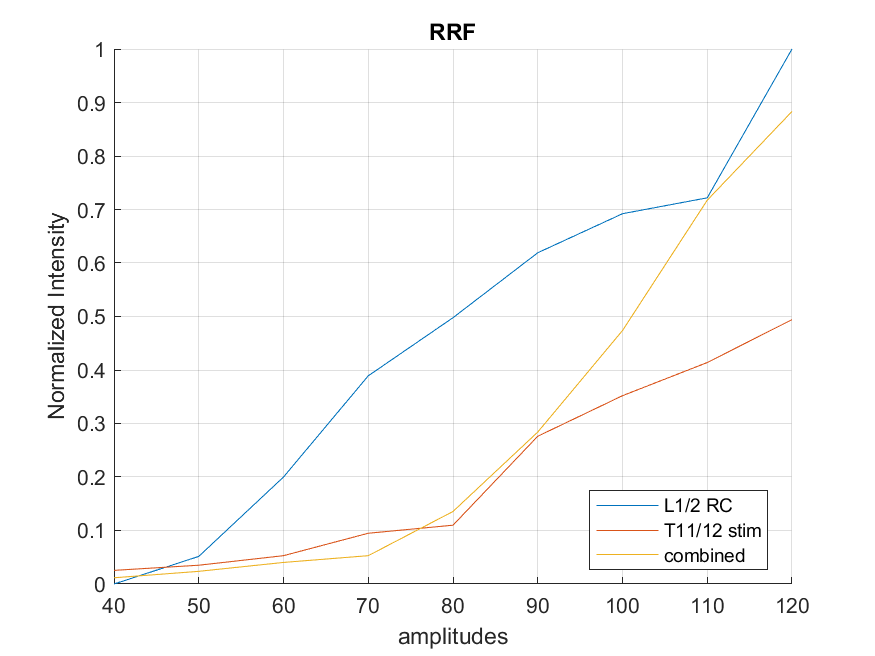
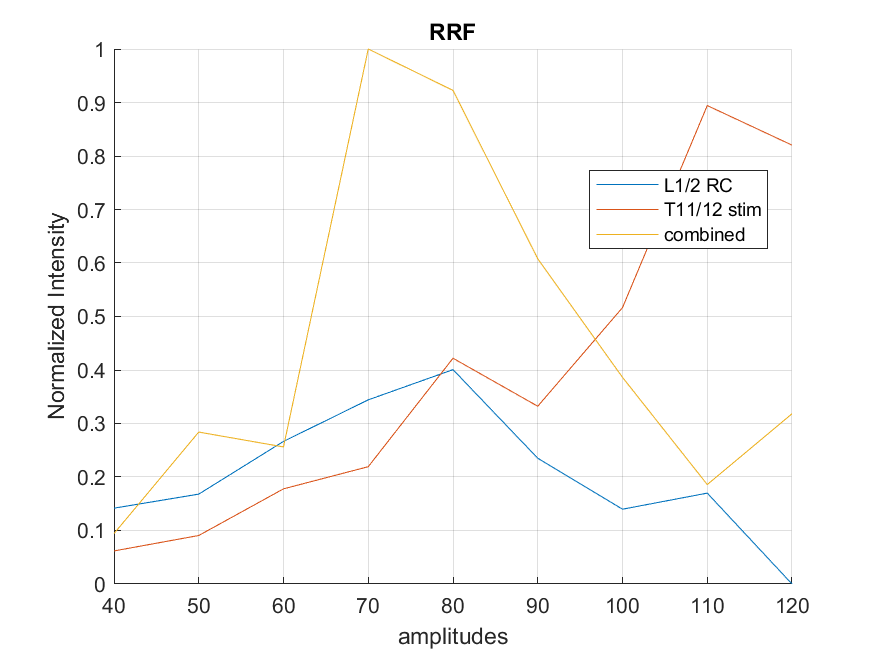
Incorporated Ratio plotting into normal plotting

diff --git a/AutomationDraft.m b/AutomationDraft.m
@@ -251,7 +251,7 @@ fprintf('\n Done! \n\n')
 fprintf('\n ===== detected R2/R1 ratio boolean, calculating... ===== \n\n' );
 
 outratio = outr2; % Initialize the new table with outr1's structure
-outratio{:, 2:9} = outr2{:, 2:9} ./ outr1{:, 2:9}; % Element-wise division
+outratio{:, 3:10} = outr2{:, 3:10} ./ outr1{:, 3:10}; % Element-wise division
 
 outrationame = 'Output/outputr2r1ratio.csv';
 writetable(outratio, outrationame);
@@ -260,16 +260,16 @@ fprintf(['\n ===== R2R1 ratio output to ' outrationame ' ===== \n\n'] );
 %% Plotting
 
 %incorporate plotting in the next draft. 
-PlotRC(outr1, record_names, 1,1);
+PlotRC(outr1, record_names,1,0,0);
 %TODO: render the data range variable obsolete
 
 % Plot each channel separately (for channel in list of channels plot
 % plot(amplitude, channel data) --> this way, channel data (in intensity)
 % will be plotted with each channel representing a different line
 
-% %% Plot R2R1
-% PlotRatioRC(outratio,9,3,0,0);
-% TODO: Incorporate ratio plot into normal RC plot, instead just plotting
+%% Plot R2R1
+PlotRC(outratio, record_names,1,1,1);
+% DONE: Incorporate ratio plot into normal RC plot, instead just plotting
 % the outratio file 
 
 
